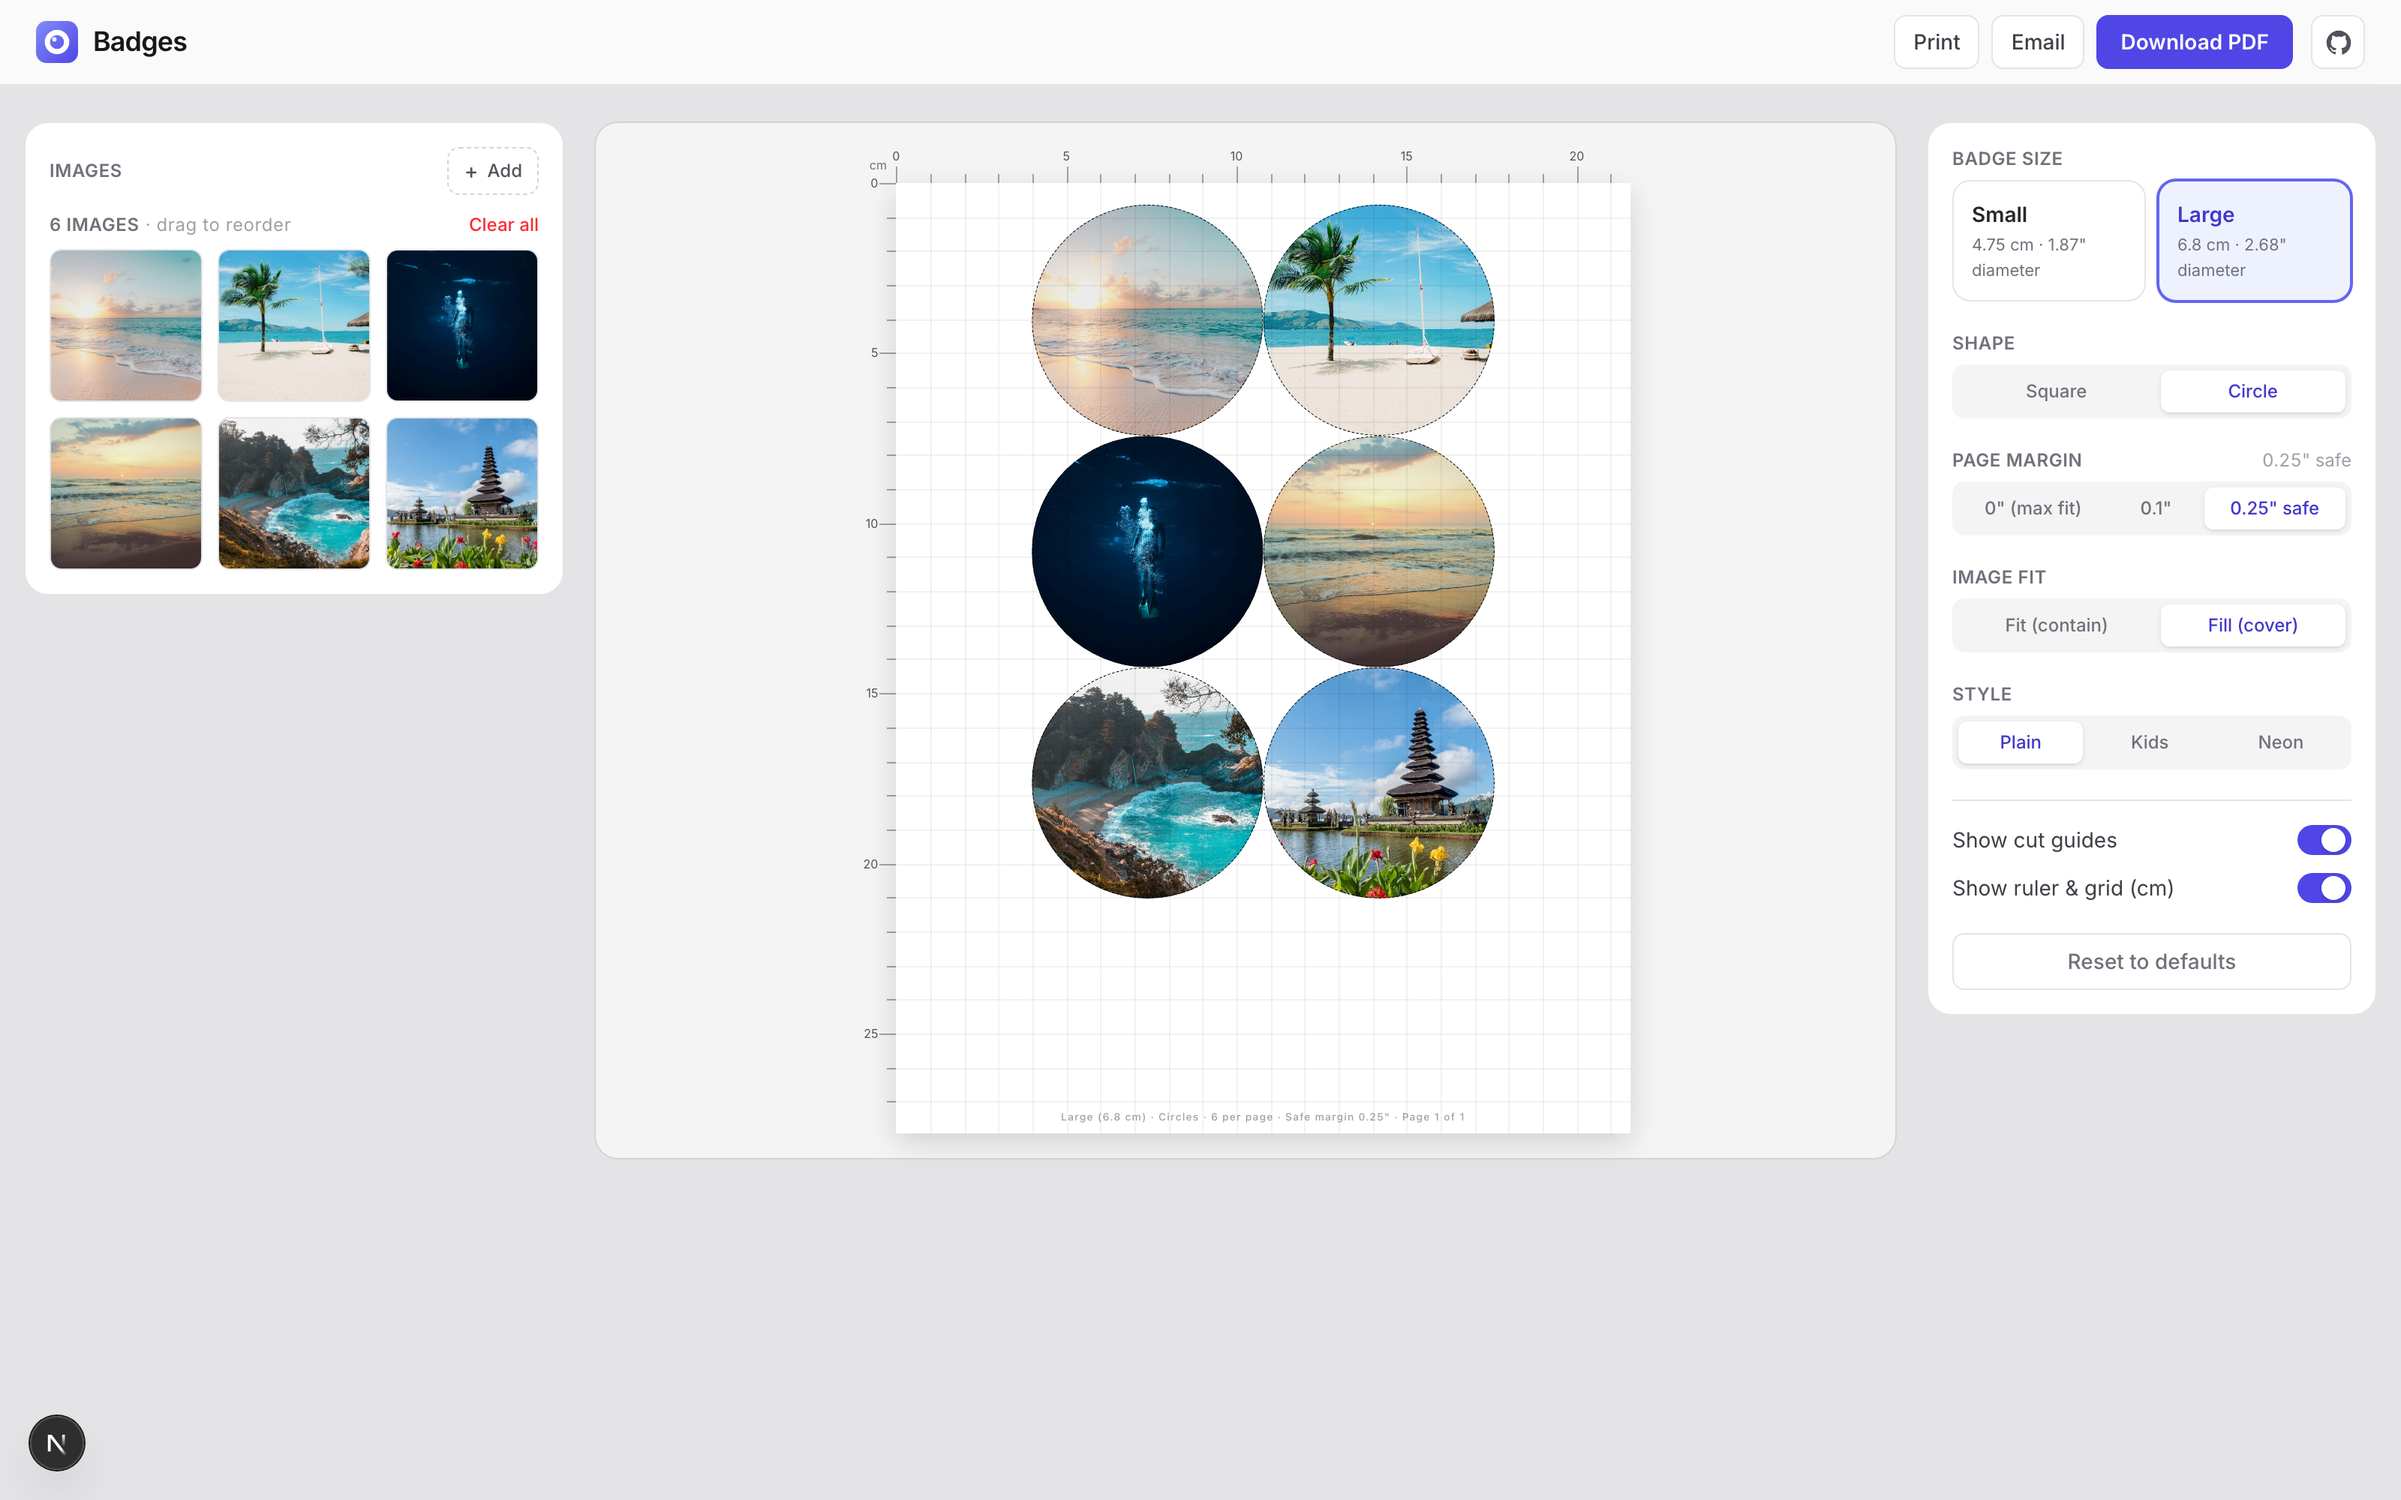
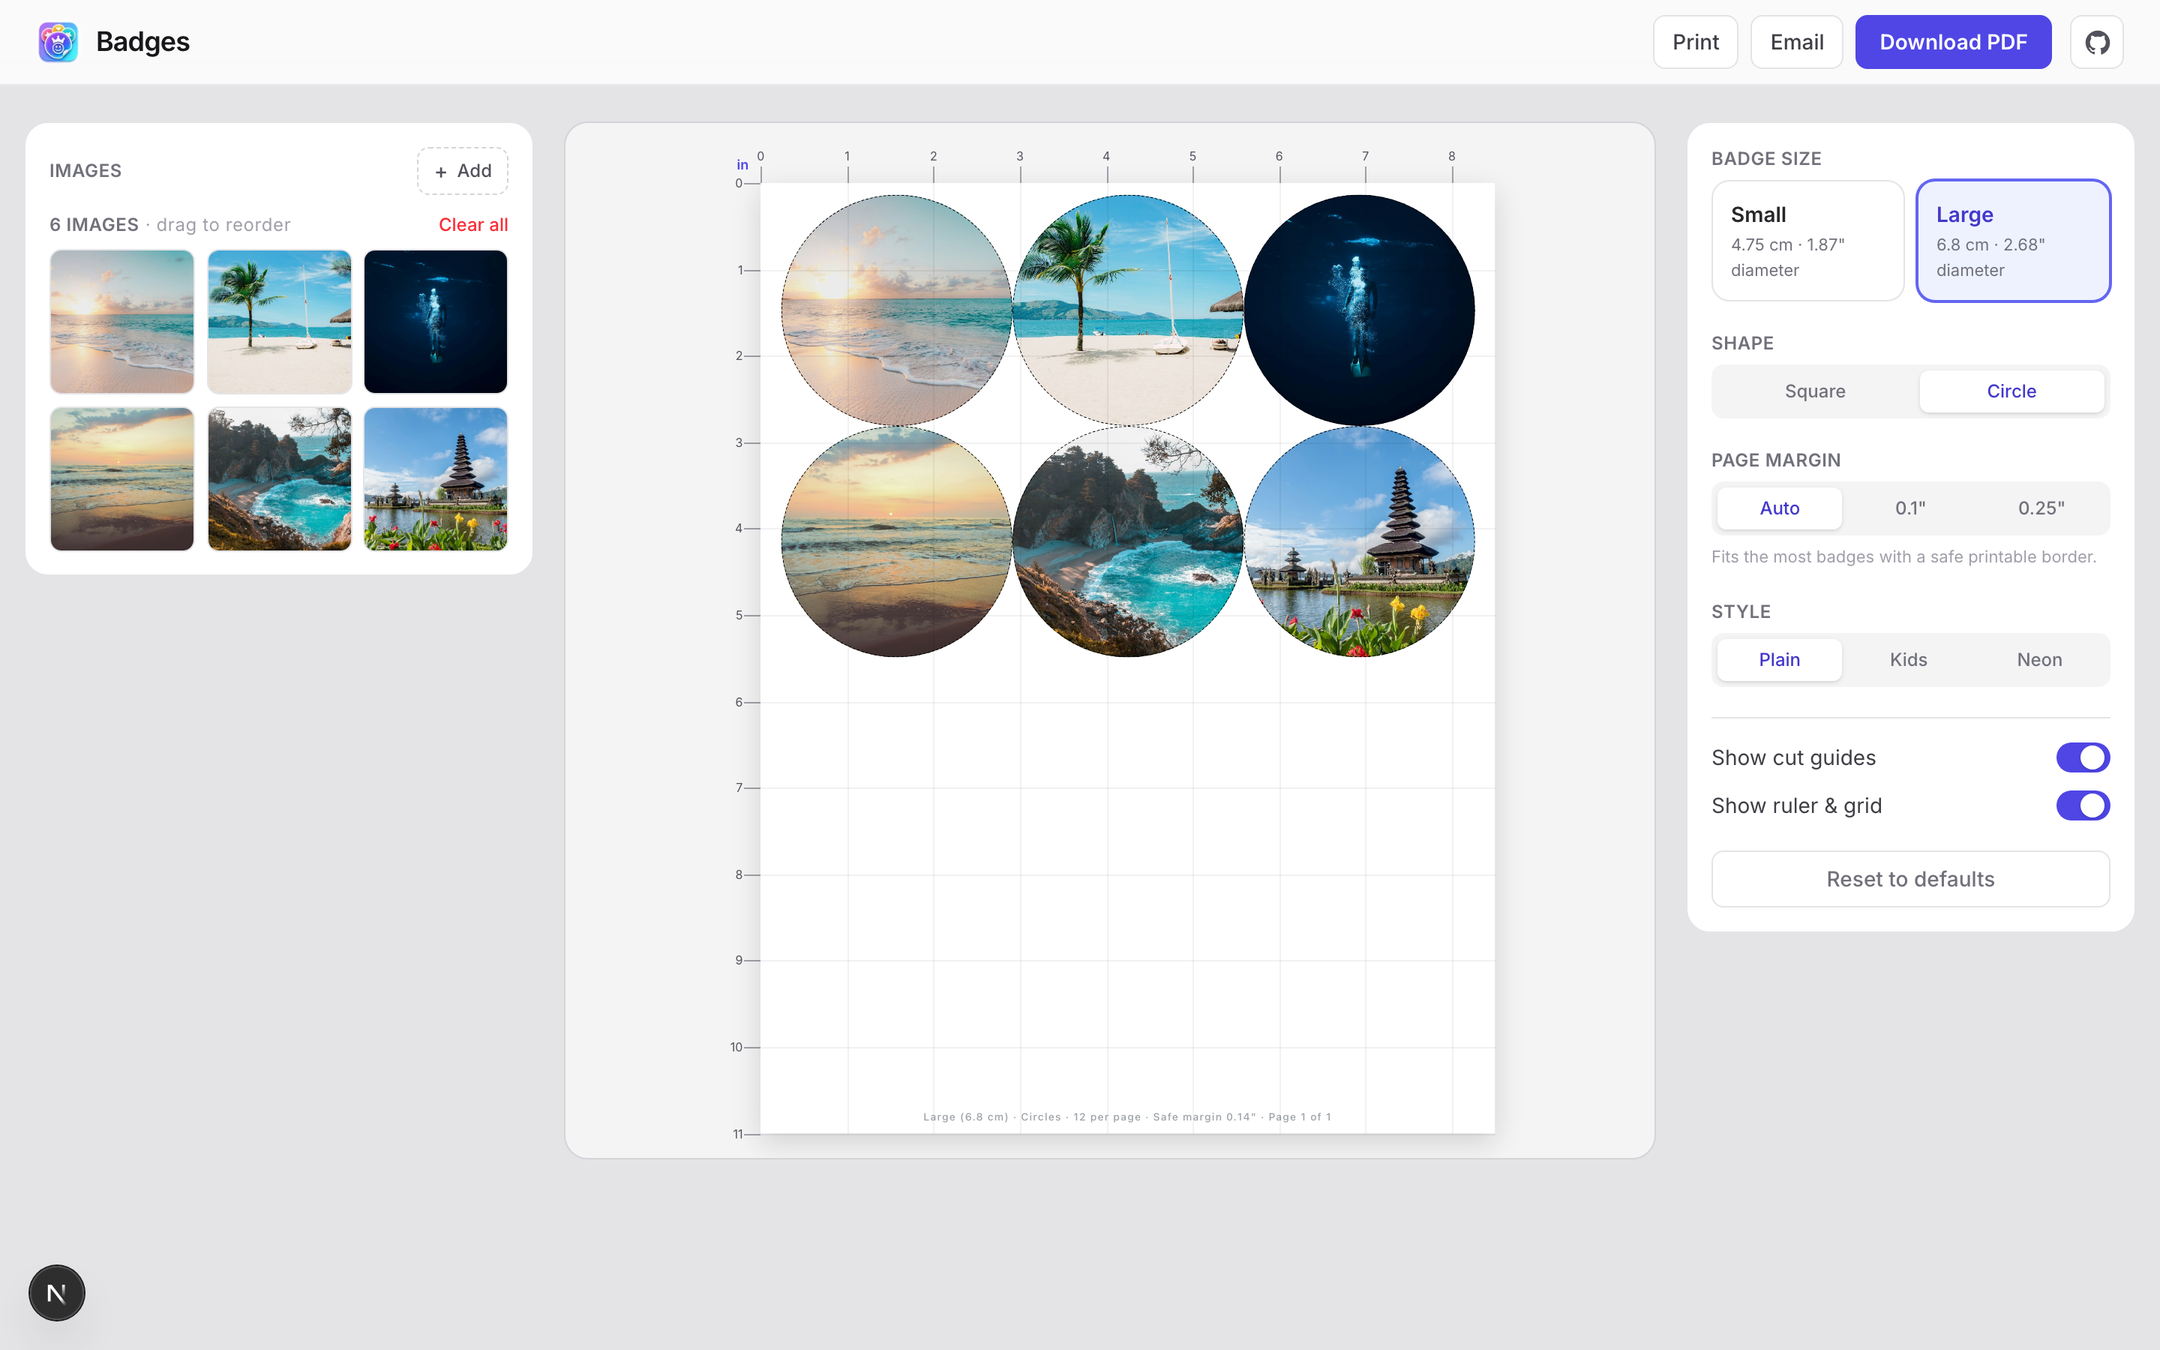
docs: rewrite README to match current app
Update features (HEIC, auto-fit, ruler, drag-to-reframe, dedupe, canvas PDF),
architecture diagram (canvas export, no html2canvas), tech stack (heic-to),
project layout, and refresh hero + studio screenshots. Drop stale mentions of
the size slider, columns/gap, repeat-to-fill, dark mode, and rounded shape.

diff --git a/README.md b/README.md
@@ -1,15 +1,15 @@
 # Badges
 
-Turn any images into print-ready badge, button, and sticker sheets - drop, size, export a PDF. Everything runs in your browser; nothing is ever uploaded.
+Turn your photos into print-ready badge, button, and sticker sheets - drop images, auto-fit a grid, export a print-ready PDF. Everything runs in your browser; nothing is ever uploaded.
 
-![Badges studio](docs/screenshots/hero.png)
+![Badges landing](docs/screenshots/hero.png)
 
 [![License: MIT](https://img.shields.io/badge/License-MIT-blue.svg)](LICENSE)
 ![Next.js](https://img.shields.io/badge/Next.js-16-black?logo=next.js)
 ![React](https://img.shields.io/badge/React-19-149eca?logo=react)
 ![TypeScript](https://img.shields.io/badge/TypeScript-strict-3178c6?logo=typescript)
 ![Tailwind CSS](https://img.shields.io/badge/Tailwind-v4-38bdf8?logo=tailwindcss)
-![Tests](https://img.shields.io/badge/tests-24%20passing-brightgreen)
+![Tests](https://img.shields.io/badge/tests-25%20passing-brightgreen)
 
 **Live:** https://badges-bheng.vercel.app
 
@@ -26,33 +26,32 @@ Turn any images into print-ready badge, button, and sticker sheets - drop, size,
 
 ## Features
 
-- **Drop, paste (⌘V), or upload** any number of images
-- **Size presets** - 1", 1.5", 2", 2.125" (classic button), 2.5", 3", plus a custom slider
-- **Shapes** - square, rounded, or circle overlay
-- **Styles** - plain, kids (colorful frames), or neon
-- **Grid control** - columns, gap, and page margin, with automatic row fitting
-- **Paper sizes** - US Letter, A4, Legal
-- **Repeat-to-fill** a page from a few images (print multiple copies at once)
-- **Cut guides** for trimming
-- **Export** - high-resolution PDF or native browser print at true size
-- **Reorder / remove** individual images
-- **Light & dark mode**, with settings persisted locally
-- **Privacy-first** - all processing happens in the browser, no server, no upload
+- **iPhone HEIC/HEVC support** - drop photos straight from an iPhone; they are decoded in-browser via libheif WebAssembly (no upload)
+- **Drop / paste (⌘V) / drag anywhere** to add images, with a live "N images incoming" overlay
+- **Two real badge sizes** - Small (4.75 cm / 1.87") and Large (6.8 cm / 2.68") diameters
+- **Auto-fit layout** - packs the most badges per page inside a safe printable border (no manual columns/gaps)
+- **Square or circle** shapes; plain, kids, or neon styles
+- **Drag a badge to reframe** its focal point so faces are never cropped out
+- **Drag to reorder** across pages; **duplicate photos are skipped** by content hash
+- **True-size ruler & 1-unit grid** (click to toggle inches/cm) plus black cut guides
+- **Export** - an email-friendly, print-DPI PDF drawn per badge (size-prefixed filename), or native print
+- **Privacy-first** - all processing happens in the browser; no server, no upload
 
 ![Badge studio](docs/screenshots/studio.png)
 
 ## Architecture
 
-A single-page client app. Images become in-browser object URLs; a pure layout
-module computes the grid and paginates; the preview renders each page as a
-real-inch CSS sheet that is either rasterized into a PDF or sent to the printer.
+A single-page client app. Images become in-browser object URLs (HEIC converted
+first); a pure layout module auto-computes the safe-fit grid and paginates; the
+preview renders each page as a real-inch CSS sheet, and export draws each badge
+straight to a canvas placed at exact inch coordinates in the PDF.
 
 ```mermaid
 flowchart LR
-    A[Drop / paste / upload] --> B[useImages<br/>object URLs]
-    B --> C[computeLayout + buildPages<br/>pure grid math]
-    C --> D[BadgeSheet<br/>real-inch CSS grid]
-    D --> E[PDF export<br/>html2canvas + jsPDF]
+    A[Drop / paste / drag] --> B[useImages<br/>HEIC to JPEG, hash dedupe]
+    B --> C[computeLayout<br/>auto safe-fit grid]
+    C --> D[BadgeSheet<br/>real-inch CSS + ruler]
+    D --> E[PDF export<br/>canvas to jsPDF]
     D --> F[Native print<br/>@media print]
     G[Controls] --> H[useSettings<br/>localStorage]
     H --> C
@@ -60,27 +59,28 @@ flowchart LR
 
 | Layer | Responsibility | Key files |
 | --- | --- | --- |
-| Layout math | Fit badges to paper, paginate | `lib/layout.ts`, `lib/presets.ts` |
-| State | Images + persisted settings + theme | `lib/useImages.ts`, `lib/useSettings.ts`, `lib/useTheme.ts` |
-| UI | Drop zone, controls, image tray, sheet | `components/*` |
-| Export | Rasterize sheets to a PDF | `lib/pdf.ts` |
-| App shell | Routing, metadata, icons, OG, manifest | `app/*` |
+| Layout math | Auto safe margin, fit + paginate | `lib/layout.ts`, `lib/presets.ts` |
+| State | Images (HEIC + dedupe), settings | `lib/useImages.ts`, `lib/useSettings.ts` |
+| UI | Landing, controls, tray, sheet | `components/*` |
+| Export | Draw each badge to a PDF page | `lib/pdf.ts` |
 
 ## How it works
 
-`computeLayout` derives how many badges fit across and down a chosen paper size
-given the badge size, gap, and margin, clamping the column count to what
-physically fits. `buildPages` then flows the images across pages (or tiles them
-to fill one page in repeat mode). Each page renders as a `.sheet` sized in real
-inches, so `@media print` prints at true size and the PDF exporter can rasterize
-each page at ~240 DPI onto a matching PDF page.
+`autoSafeMargin` finds the most generous margin (at least a printer-safe minimum)
+that still fits the maximum badges, so the grid centers with an even safe border.
+`computeLayout` then derives the columns and rows that fit the chosen diameter,
+and `buildPages` flows the photos across pages. Each page renders as a `.sheet`
+sized in real inches (so `@media print` prints at true size), and the PDF exporter
+draws every badge onto a canvas - cropped to its shape with its focal offset - and
+places it at exact inch coordinates, keeping the file email-friendly and sharp.
 
 ## Tech stack
 
 - [Next.js 16](https://nextjs.org) (App Router) + React 19 + TypeScript (strict)
 - Tailwind CSS v4
-- [jsPDF](https://github.com/parallax/jsPDF) + [html2canvas](https://html2canvas.hertzen.com) for PDF export
-- `next/og` for generated icons, apple-touch icon, and the OG share image
+- [heic-to](https://github.com/hoppergee/heic-to) (libheif WebAssembly) for iPhone HEIC
+- [jsPDF](https://github.com/parallax/jsPDF) + HTML5 Canvas for the PDF export
+- `next/og` for the generated favicon, apple-touch icon, and OG share image
 - Vitest + Testing Library
 - Deployed on Vercel
 
@@ -93,13 +93,13 @@ npm install
 npm run dev
 ```
 
-Open http://localhost:3007 and drop in some images.
+Open http://localhost:3007 and drop in some photos (or click "try an example").
 
 ### Scripts
 
 | Command | Description |
 | --- | --- |
-| `npm run dev` | Start the dev server (port 3007) |
+| `npm run dev` | Start the dev server |
 | `npm run build` | Production build |
 | `npm start` | Serve the production build |
 | `npm test` | Run the unit + component tests |
@@ -114,15 +114,13 @@ grid settings in `localStorage`.
 ## Project layout
 
 ```
-app/                 # App Router: layout, home, sign-in, icons, manifest, OG image
-  page.tsx           # the studio (drop zone, controls, live preview)
+app/                 # App Router: landing, sign-in, icons, manifest, OG image
+  page.tsx           # the studio (landing, controls, live preview, export)
   signin/            # branded local-first welcome page
-  icon.tsx           # generated PWA icons (192 + 512)
-  apple-icon.tsx     # generated apple-touch icon
-  opengraph-image.tsx# generated social share image
-  manifest.ts        # PWA / add-to-home-screen manifest
-components/           # DropZone, Controls, ImageTray, BadgeSheet, Header, ...
-lib/                  # layout math, presets, PDF export, hooks
+  icon.png           # favicon  ·  apple-icon.png  ·  manifest.ts  ·  opengraph-image.tsx
+components/           # Aurora, DropZone, Controls, ImageTray, BadgeSheet, Header
+lib/                  # layout math, presets, PDF export, hooks (images/settings)
+public/samples/       # bundled example photos ("try an example")
 test/                 # Vitest unit + component tests
 reference/            # the original standalone HTML prototypes (source material)
 docs/screenshots/     # README images
